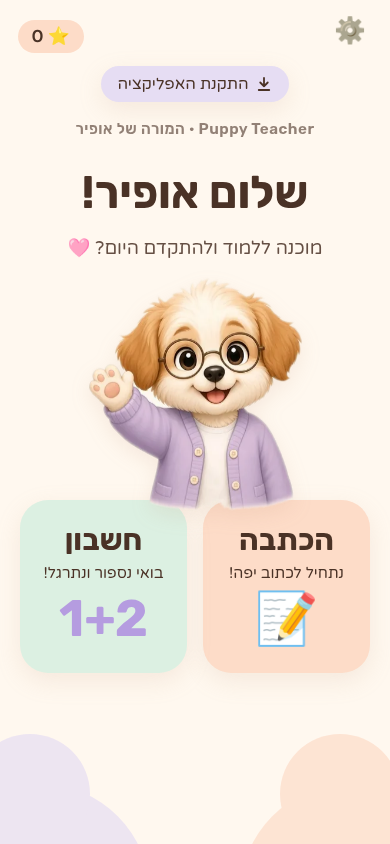
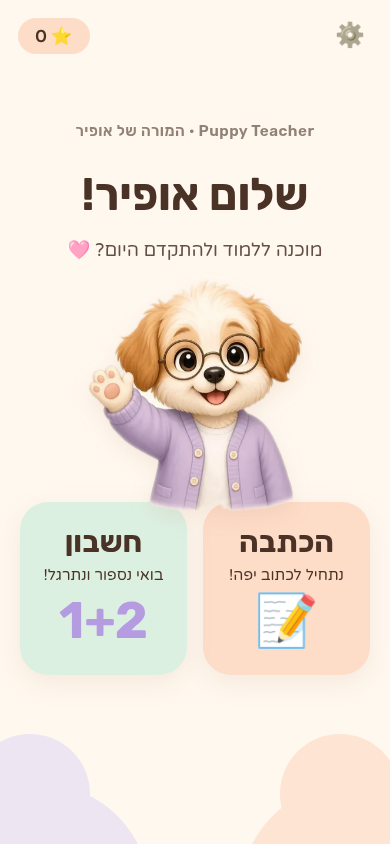
Math multiple choice, nikud editor, feminine text, recordings, hard words, CLS fix, sw v3

diff --git a/app.js b/app.js
@@ -30,70 +30,108 @@ const dots = (n, i) => $("#dots").innerHTML = n ? Array.from({ length: n }, (_, 
 const go = h => location.hash = h;
 function route() {
   const h = location.hash.slice(1) || "home"; clearTimeout(ft); dots(0);
-  const scr = ["full", "flash", "class"].includes(h) ? "dict" : h;
+  const scr = ["full", "flash", "class", "hard"].includes(h) ? "dict" : h;
   $$(".screen").forEach(s => s.classList.toggle("on", s.id === scr));
-  $("#back").style.visibility = h === "home" ? "hidden" : "visible";
+  $("#back").hidden = h === "home"; $("#gear").hidden = h !== "home";
   ({ dict: () => startDict(h), math: startMath, parent: renderParent, modes: renderModes })[scr]?.();
 }
 addEventListener("hashchange", route);
 document.addEventListener("click", e => { const g = e.target.closest("[data-go]"); if (g) go(g.dataset.go); });
-$("#back").onclick = () => go(["full", "flash", "class"].includes(location.hash.slice(1)) ? "modes" : "home");
+$("#back").onclick = () => go(["full", "flash", "class", "hard"].includes(location.hash.slice(1)) ? "modes" : "home");
 
 function renderModes() {
   $("#listSel").innerHTML = lists.map(l => `<option value="${l.id}" ${l.id === cur ? "selected" : ""}>${l.name}</option>`).join("");
+  const n = Object.keys(hardOf()).length; $("#hardBtn").hidden = !n; $("#hardN").textContent = n;
 }
-$("#listSel").onchange = e => S.set("cur", cur = e.target.value);
+$("#listSel").onchange = e => { S.set("cur", cur = e.target.value); renderModes(); };
+
+// voice recordings (IndexedDB)
+const DB = new Promise(ok => { const r = indexedDB.open("pt", 1); r.onupgradeneeded = () => r.result.createObjectStore("rec"); r.onsuccess = () => ok(r.result); r.onerror = () => ok(null); });
+const rec = async (mode, key, val) => { const db = await DB; if (!db) return null; return new Promise(ok => {
+  const s = db.transaction("rec", mode === "get" ? "readonly" : "readwrite").objectStore("rec");
+  const q = mode === "get" ? s.get(key) : mode === "put" ? s.put(val, key) : s.delete(key); q.onsuccess = () => ok(q.result); q.onerror = () => ok(null); }); };
+const recKey = (lid, w) => lid + "|" + w;
+let audio;
+async function sayWord(w) {
+  const b = await rec("get", recKey(curList().id, w));
+  if (b) { audio?.pause(); audio = new Audio(URL.createObjectURL(b)); audio.play(); return true; }
+  return speak(w);
+}
+
+// hard words
+const curList = () => lists.find(l => l.id === cur) || lists[0] || { id: "", words: [] };
+const hardOf = () => S.get("hard_" + curList().id, {});
+function markWord(w, ok) {
+  const h = hardOf();
+  if (!ok) h[w] = 0; else if (w in h) { if (++h[w] >= 2) delete h[w]; }
+  S.set("hard_" + curList().id, h);
+}
 
 // dictation
 let words = [], wi = 0, mode, ft, stage;
 function startDict(m) {
-  mode = m; wi = 0; words = (lists.find(l => l.id === cur) || lists[0] || { words: [] }).words;
-  if (!words.length) return go("parent");
+  const all = curList().words, h = hardOf();
+  mode = m === "hard" ? "class" : m;
+  words = m === "hard" ? all.filter(w => w in h) : [...all.filter(w => w in h), ...all.filter(w => !(w in h))];
+  wi = 0; if (!words.length) return go(m === "hard" ? "modes" : "parent");
   show();
 }
+function reveal() {
+  stage = 2; const W = $("#word"); W.hidden = false; W.classList.remove("h");
+  $("#play").hidden = $("#again").hidden = true; $("#review").hidden = false;
+  pose($("#pd"), "think"); say($("#bd"), "בדקי במחברת – כתבת נכון?", false); $("#dMain").textContent = "הבאה";
+}
 function show() {
-  clearTimeout(ft); dots(words.length, wi); stage = 0;
+  clearTimeout(ft); dots(words.length, wi); stage = 0; $("#review").hidden = true;
   const w = words[wi], W = $("#word"), b = $("#bd");
   W.textContent = w; W.classList.remove("h"); W.hidden = false;
   $("#play").hidden = $("#again").hidden = true; $("#dPrev").hidden = mode !== "full" || wi === 0;
   pose($("#pd"), "pencil"); $("#dMain").textContent = "הבאה";
   if (mode === "full") say(b, wi ? "עכשיו את זו, אופיר" : "העתיקי למחברת, אופיר", !wi);
   if (mode === "flash") {
-    say(b, "הסתכלי טוב...", false); $("#dMain").textContent = "כתבתי!";
+    say(b, "הסתכלי טוב...", false); $("#dMain").textContent = "כתבתי!"; stage = 1;
     ft = setTimeout(() => { W.classList.add("h"); $("#again").hidden = false; say(b, "עכשיו כתבי מהזיכרון!", false); }, S.get("sec", 3) * 1000);
   }
   if (mode === "class") {
     W.hidden = true; $("#play").hidden = $("#again").hidden = false; $("#dMain").textContent = "המשך";
     say(b, "הקשיבי אופיר...", false); stage = 1;
-    if (!speak(w)) { W.hidden = false; $("#play").hidden = true; say(b, "אין קול עברי במכשיר – קראי את המילה", false); }
+    sayWord(w).then(ok => { if (!ok) { W.hidden = false; $("#play").hidden = true; say(b, "אין קול במכשיר – קראי את המילה", false); } });
   }
 }
-$("#play").onclick = $("#again").onclick = () => mode === "flash" ? show() : speak(words[wi]);
+$("#play").onclick = $("#again").onclick = () => mode === "flash" ? show() : sayWord(words[wi]);
 $("#dPrev").onclick = () => { wi--; show(); };
+$("#review").onclick = e => { const b = e.target.closest("[data-ok]"); if (!b) return;
+  const ok = b.dataset.ok === "1"; markWord(words[wi], ok);
+  say($("#bd"), ok ? rnd(PRAISE) : "לא נורא, נתרגל אותה שוב, אופיר 💪", ok); if (ok) pose($("#pd"), "cheer");
+  $("#review").hidden = true; };
 $("#dMain").onclick = () => {
-  if (stage === 1) { stage = 2; $("#word").hidden = false; $("#play").hidden = $("#again").hidden = true;
-    pose($("#pd"), "think"); say($("#bd"), "בדקי במחברת: ככה כותבים!", false); $("#dMain").textContent = "הבאה"; return; }
-  if (wi < words.length - 1) { if (mode !== "full" && Math.random() < .35) { pose($("#pd"), "cheer"); speak(rnd(PRAISE)); } wi++; return show(); }
-  addStar(1); party(); pose($("#pd"), "cheer"); dots(words.length, words.length);
+  if (stage === 3) return startDict(location.hash.slice(1));
+  if (stage === 1) return reveal();
+  if (wi < words.length - 1) { wi++; return show(); }
+  addStar(1); party(); pose($("#pd"), "cheer"); dots(words.length, words.length); $("#review").hidden = true;
   say($("#bd"), "סיימת את הרשימה! כל הכבוד אופיר!"); $("#word").hidden = false; $("#word").classList.remove("h");
   $("#word").textContent = "⭐"; $("#play").hidden = $("#again").hidden = $("#dPrev").hidden = true;
   $("#dMain").textContent = "🔁 שוב"; stage = 3;
 };
-// repeat handler (stage 3 -> restart)
-const _dm = $("#dMain").onclick; $("#dMain").onclick = () => stage === 3 ? startDict(mode) : _dm();
 
-// math
+// math (answer on screen by tapping a choice)
 const LV = [["עד 10", 10, "+"], ["עד 20", 20, "+"], ["עד 29", 29, "+"], ["מה חסר?", 20, "?"], ["חיסור", 20, "-"]];
-let lvl = S.get("lv", 0), q, ex, rev, aid = false, got;
+let lvl = S.get("lv", 0), q, ex, aid = false, got, miss, lock;
 $("#lv").innerHTML = LV.map((l, i) => `<button data-l="${i}">${l[0]}</button>`).join("");
 $("#lv").onclick = e => { const b = e.target.closest("[data-l]"); if (b) { S.set("lv", lvl = +b.dataset.l); startMath(); } };
-function startMath() { q = 0; got = 0; $$("#lv button").forEach((b, i) => b.classList.toggle("sel", i === lvl)); say($("#bmath"), "פתרי במחברת, אופיר", false); next(); }
+function startMath() { q = 0; got = 0; $$("#lv button").forEach((b, i) => b.classList.toggle("sel", i === lvl)); say($("#bmath"), "בחרי את התשובה, אופיר", false); next(); }
+function choices(ans, max) {
+  const set = new Set([ans]), c = [1, -1, 2, -2, 3, -3, 10, -10].sort(() => Math.random() - .5);
+  for (const d of c) { const v = ans + d; if (set.size < 4 && v >= 0 && v <= max) set.add(v); }
+  return [...set].sort(() => Math.random() - .5);
+}
 function next() {
   const [, max, t] = LV[lvl], r = n => Math.floor(Math.random() * (n + 1));
   const s = Math.max(2, r(max)), a = r(s), b = s - a;
   ex = t === "+" ? { h: `${a} + ${b} = _`, ans: s, x: a, y: b } : t === "?" ? { h: `${a} + _ = ${s}`, ans: b, x: a, y: 0 } : { h: `${s} − ${a} = _`, ans: b, x: s, y: 0 };
-  rev = false; dots(10, q); pose($("#pm"), "pencil"); $("#mMain").textContent = "בדיקה";
+  miss = 0; lock = false; dots(10, q); pose($("#pm"), "pencil");
   $("#ex").innerHTML = ex.h.replace("_", '<span class="q">?</span>'); drawAid();
+  $("#ch").innerHTML = choices(ex.ans, max).map(v => `<button data-v="${v}">${v}</button>`).join("");
 }
 function drawAid() {
   const el = $("#aid"); el.innerHTML = ""; if (!aid) return;
@@ -101,44 +139,94 @@ function drawAid() {
   fr(ex.x, "x"); fr(ex.y, "y");
 }
 $("#aidBtn").onclick = () => { aid = !aid; drawAid(); };
-$("#mMain").onclick = () => {
-  if (!rev) { rev = true; $("#ex .q").outerHTML = `<span class="a">${ex.ans}</span>`; pose($("#pm"), "think");
-    say($("#bmath"), "יצא לך " + ex.ans + "?", false); $("#mMain").textContent = "המשך"; got++; return; }
-  if (++q < 10) { if (Math.random() < .3) speak(rnd(PRAISE)); return next(); }
-  addStar(Math.ceil(got / 3)); party(); pose($("#pm"), "cheer"); dots(10, 10);
-  say($("#bmath"), "סיימת 10 תרגילים! את אלופה אופיר!"); setTimeout(startMath, 3000);
+$("#ch").onclick = e => {
+  const b = e.target.closest("[data-v]"); if (!b || lock || b.disabled) return;
+  if (+b.dataset.v === ex.ans) {
+    lock = true; b.classList.add("ok"); $("#ex .q").outerHTML = `<span class="a">${ex.ans}</span>`;
+    pose($("#pm"), "cheer"); if (!miss) got++; say($("#bmath"), rnd(PRAISE), Math.random() < .5);
+    setTimeout(() => { if (++q < 10) return next();
+      addStar(Math.max(1, Math.ceil(got / 3))); party(); dots(10, 10);
+      say($("#bmath"), "סיימת 10 תרגילים! את אלופה אופיר!"); setTimeout(startMath, 3200); }, 1300);
+  } else {
+    miss++; b.classList.add("no"); b.disabled = true; pose($("#pm"), "think");
+    say($("#bmath"), miss > 1 ? "הנה התשובה הנכונה – לחצי עליה" : "כמעט! נסי שוב, אופיר", false);
+    if (miss > 1) $(`#ch [data-v="${ex.ans}"]`).classList.add("hint");
+  }
 };
 
 // parent area
-let editId = null, lastTA = $("#pWords");
-const NIK = [["ָ", "קמץ"], ["ַ", "פתח"], ["ֵ", "צירה"], ["ֶ", "סגול"], ["ִ", "חיריק"], ["ֹ", "חולם"], ["ֻ", "קובוץ"], ["ּ", "דגש/שורוק"], ["ְ", "שווא"], ["ֱ", "חטף סגול"], ["ֲ", "חטף פתח"], ["ֳ", "חטף קמץ"], ["ׁ", "שׁ ימנית"], ["ׂ", "שׂ שמאלית"]];
-$("#nik").innerHTML = NIK.map(([m, n]) => `<button title="${n}" data-m="${m}">ב${m}</button>`).join("");
-["#pWords", "#sWords"].forEach(s => $(s).addEventListener("focus", e => lastTA = e.target));
-$("#nik").addEventListener("pointerdown", e => e.preventDefault());
-$("#nik").onclick = e => { const m = e.target.dataset.m; if (!m) return; const t = lastTA, a = t.selectionStart;
-  t.setRangeText(m, a, t.selectionEnd, "end"); t.focus(); };
+let editId = null;
+// ---- nikud helpers (pure) ----
+const isMark = c => /[\u0591-\u05C7]/.test(c);
+const VOW = c => /[\u05B0-\u05BB\u05C7]/.test(c), DAG = c => c === "\u05BC", SHD = c => c === "\u05C1" || c === "\u05C2";
+function setMark(cl, m) {
+  if (m === "") return cl[0];
+  const cls = VOW(m) ? VOW : DAG(m) ? DAG : SHD, ms = [...cl.slice(1)], had = ms.includes(m);
+  const rest = ms.filter(c => !cls(c)); if (!had) rest.push(m);
+  return (cl[0] + rest.join("")).normalize("NFC");
+}
+const clusters = w => w.match(/[^\u0591-\u05C7][\u0591-\u05C7]*/g) || [];
+// ---- toolbar ----
+const NIK = [["ַ", "פתח"], ["ָ", "קמץ"], ["ֵ", "צירה"], ["ֶ", "סגול"], ["ִ", "חיריק"], ["ֹ", "חולם"], ["ֻ", "קובוץ"], ["ְ", "שווא"], ["ֲ", "חטף פתח"], ["ֱ", "חטף סגול"], ["ֳ", "חטף קמץ"], ["ּ", "דגש / שורוק"], ["ׁ", "שׁ"], ["ׂ", "שׂ"], ["", "ניקוי"]];
+const TA = $("#pWords"); let sel = { s: 0, e: 0 }, chip = null; // chip = {line, idx}
+const keepSel = () => { sel = { s: TA.selectionStart, e: TA.selectionEnd }; chip = null; $$("#letters button").forEach(b => b.classList.remove("sel")); preview(); };
+["keyup", "click", "input", "select", "focus"].forEach(ev => TA.addEventListener(ev, keepSel));
+document.addEventListener("selectionchange", () => { if (document.activeElement === TA) keepSel(); });
+function taCluster() { // letter cluster ending at/just before caret
+  const v = TA.value; let i = sel.s; if (!i) return null;
+  let j = i; while (j > 0 && isMark(v[j - 1])) j--; const st = j - 1; if (st < 0 || /\s/.test(v[st])) return null;
+  let en = st + 1; while (en < v.length && isMark(v[en])) en++;
+  return { st, en, cl: v.slice(st, en) };
+}
+function target() {
+  if (chip) { const w = lines()[chip.line], c = clusters(w); return c[chip.idx] ? { cl: c[chip.idx] } : null; }
+  return taCluster();
+}
+function preview() {
+  const t = target(), L = t ? t.cl[0] : "א";
+  $("#nik").innerHTML = NIK.map(([m, n]) => `<button title="${n}" data-m="${m}">${m === "" ? "✖" : (t ? setMark(t.cl, m) : L + m)}</button>`).join("");
+}
+$("#nik").addEventListener("pointerdown", e => e.preventDefault()); // keep keyboard/selection
+$("#nik").onclick = e => {
+  const b = e.target.closest("[data-m]"); if (!b) return; const m = b.dataset.m, t = target(); if (!t) return;
+  if (chip) { const ls = lines(), c = clusters(ls[chip.line]); c[chip.idx] = setMark(c[chip.idx], m); ls[chip.line] = c.join(""); TA.value = ls.join("\n"); showLetters(chip.line, chip.idx); }
+  else { const nw = setMark(t.cl, m); TA.setRangeText(nw, t.st, t.en, "end"); sel = { s: t.st + nw.length, e: t.st + nw.length }; TA.setSelectionRange(sel.s, sel.s); preview(); }
+  renderWords();
+};
+// ---- word editor ----
+const lines = () => TA.value.split("\n");
+function renderWords() { $("#wlist").innerHTML = lines().map((w, i) => w.trim() ? `<button data-w="${i}">${w}</button>` : "").join(""); }
+function showLetters(li, sIdx = null) {
+  $("#letters").innerHTML = clusters(lines()[li]).map((c, i) => `<button data-c="${i}" class="${i === sIdx ? "sel" : ""}">${c}</button>`).join("");
+  $("#letters").dataset.line = li;
+}
+TA.addEventListener("input", renderWords);
+$("#wlist").onclick = e => { const b = e.target.closest("[data-w]"); if (b) { TA.blur(); chip = null; showLetters(+b.dataset.w); preview(); } };
+$("#letters").onclick = e => { const b = e.target.closest("[data-c]"); if (!b) return;
+  chip = { line: +$("#letters").dataset.line, idx: +b.dataset.c }; showLetters(chip.line, chip.idx); preview(); };
+window.__nik = { setMark, clusters };
 const clean = s => s.normalize("NFC").split("\n").map(x => x.trim()).filter(Boolean);
 function renderParent() {
   $("#plist").innerHTML = lists.map(l => `<div><span>${l.name} · ${l.words.length}${l.img ? " 📷" : ""}</span><span>
    ${l.img ? `<button data-v="${l.id}">🖼</button>` : ""}<button data-e="${l.id}">✏</button><button data-d="${l.id}">🗑</button></span></div>`).join("");
-  $("#sec").value = S.get("sec", 3);
+  $("#sec").value = S.get("sec", 3); renderWords(); preview();
 }
 $("#plist").onclick = e => { const d = e.target.dataset, l = lists.find(x => x.id === (d.e || d.d || d.v)); if (!l) return;
   if (d.v) { const p = $("#prev"); p.src = l.img; p.hidden = false; p.scrollIntoView({ behavior: "smooth" }); }
-  if (d.e) { editId = l.id; $("#pName").value = l.name; $("#pWords").value = l.words.join("\n"); $("#prev").hidden = !l.img; if (l.img) $("#prev").src = l.img; }
+  if (d.e) { editId = l.id; $("#pName").value = l.name; $("#pWords").value = l.words.join("\n"); renderWords(); $("#letters").innerHTML = ""; renderRecs(); $("#prev").hidden = !l.img; if (l.img) $("#prev").src = l.img; }
   if (d.d && confirm("למחוק?")) { lists = lists.filter(x => x !== l); S.set("lists", lists); renderParent(); } };
-$("#newL").onclick = () => { editId = null; $("#pName").value = $("#pWords").value = ""; $("#prev").hidden = true; $("#sugg").hidden = true; };
+$("#newL").onclick = () => { editId = null; $("#pName").value = $("#pWords").value = ""; $("#prev").hidden = true; $("#sugg").hidden = true; renderRecs(); };
 $("#save").onclick = () => {
   const w = clean($("#pWords").value); if (!w.length) return alert("נא להוסיף מילים");
   const name = $("#pName").value.trim() || "רשימה חדשה", img = $("#prev").hidden ? null : $("#prev").src;
   if (editId) Object.assign(lists.find(x => x.id === editId), { name, words: w, img });
   else { editId = "l" + Date.now(); lists.push({ id: editId, name, words: w, img }); S.set("cur", cur = editId); }
-  if (S.set("lists", lists)) { renderParent(); $("#status").textContent = "נשמר ✔"; }
+  if (S.set("lists", lists)) { renderParent(); renderRecs(); $("#status").textContent = "נשמר ✔"; }
 };
 $("#sec").onchange = e => S.set("sec", Math.max(1, +e.target.value || 3));
 const st = t => $("#status").textContent = t;
 function suggest(words) { $("#sWords").value = words.join("\n"); $("#sugg").hidden = false; }
-$("#okS").onclick = () => { $("#pWords").value = clean($("#sWords").value).join("\n"); $("#sugg").hidden = true; };
+$("#okS").onclick = () => { $("#pWords").value = clean($("#sWords").value).join("\n"); $("#sugg").hidden = true; renderWords(); };
 
 // Dicta Nakdan (CORS open; text/plain avoids preflight)
 $("#auto").onclick = async () => {
@@ -173,6 +261,28 @@ $("#img").onchange = async e => {
 
 $("#tot").textContent = S.get("stars", 0);
 route();
+
+// parent voice recordings per word (optional)
+async function renderRecs() {
+  const l = lists.find(x => x.id === editId); $("#recs").hidden = !l || !window.MediaRecorder; if ($("#recs").hidden) return;
+  const rows = await Promise.all(l.words.map(async (w, i) => `<div class="rec" data-i="${i}"><span>${w}</span>
+    <button data-a="r">🎙</button>${await rec("get", recKey(l.id, w)) ? '<button data-a="p">▶</button><button data-a="d">🗑</button>' : ""}</div>`));
+  $("#recList").innerHTML = rows.join("");
+}
+$("#recList").onclick = async e => {
+  const b = e.target.closest("[data-a]"); if (!b) return; const l = lists.find(x => x.id === editId), w = l.words[+b.closest(".rec").dataset.i], k = recKey(l.id, w);
+  if (b.dataset.a === "p") { const bl = await rec("get", k); if (bl) new Audio(URL.createObjectURL(bl)).play(); }
+  if (b.dataset.a === "d") { await rec("del", k); renderRecs(); }
+  if (b.dataset.a === "r") {
+    try {
+      const st = await navigator.mediaDevices.getUserMedia({ audio: true }), mr = new MediaRecorder(st), ch = [];
+      b.textContent = "⏺"; b.classList.add("live");
+      mr.ondataavailable = ev => ch.push(ev.data);
+      mr.onstop = async () => { st.getTracks().forEach(t => t.stop()); await rec("put", k, new Blob(ch, { type: mr.mimeType })); renderRecs(); };
+      mr.start(); b.onclick = () => mr.state === "recording" && mr.stop(); setTimeout(() => mr.state === "recording" && mr.stop(), 3000);
+    } catch { st("אין גישה למיקרופון"); }
+  }
+};
 
 // PWA install
 if ("serviceWorker" in navigator) navigator.serviceWorker.register("sw.js").catch(() => {});

diff --git a/index.html b/index.html
@@ -4,17 +4,16 @@
 <title>Puppy Teacher · המורה של אופיר</title><link rel="manifest" href="manifest.json"><meta name="theme-color" content="#FFF8EF"><link rel="icon" href="assets/icon-192.png"><link rel="apple-touch-icon" href="assets/apple-touch-icon.png"><meta name="apple-mobile-web-app-capable" content="yes"><meta name="mobile-web-app-capable" content="yes"><meta name="apple-mobile-web-app-title" content="Puppy Teacher"><meta name="apple-mobile-web-app-status-bar-style" content="default">
 <link rel="preconnect" href="https://fonts.googleapis.com">
 <link href="https://fonts.googleapis.com/css2?family=Rubik:wght@400;600;700&family=Varela+Round&display=swap" rel="stylesheet">
-<link rel="stylesheet" href="style.css"></head>
+<link rel="preload" href="assets/wave.webp" as="image"><link rel="stylesheet" href="style.css"></head>
 <body>
 <div class="clouds"><i class="c1"></i><i class="c2"></i></div>
-<header><button class="nav" id="back" aria-label="בית">🏠</button><div class="dots" id="dots"></div><div class="star">⭐ <b id="tot">0</b></div></header>
+<header><button class="nav" id="back" hidden aria-label="בית">🏠</button><button class="nav gear" id="gear" data-go="parent" aria-label="הורים">⚙</button><div class="dots" id="dots"></div><div class="star">⭐ <b id="tot">0</b></div></header>
 
 <main>
 <section id="home" class="screen">
- <button class="gear" data-go="parent" aria-label="הורים">⚙</button>
  <button class="install" id="install" hidden><svg viewBox="0 0 24 24" width="18" height="18" fill="none" stroke="currentColor" stroke-width="2.4" stroke-linecap="round" stroke-linejoin="round"><path d="M12 4v11m-5-5 5 5 5-5M5 20h14"/></svg> התקנת האפליקציה</button>
  <p class="brand">Puppy Teacher · המורה של אופיר</p><h1>שלום אופיר!</h1><p class="sub">מוכנה ללמוד ולהתקדם היום? 🩷</p>
- <img class="pup" data-pose="wave" alt="">
+ <img class="pup" data-pose="wave" src="assets/wave.webp" width="369" height="400" alt="">
  <div class="cards">
   <button class="card peach" data-go="modes"><b>הכתבה</b><span>נתחיל לכתוב יפה!</span><em>📝</em></button>
   <button class="card mint" data-go="math"><b>חשבון</b><span>בואי נספור ונתרגל!</span><em class="num">1+2</em></button>
@@ -22,30 +21,32 @@
 </section>
 
 <section id="modes" class="screen">
- <div class="talk"><div class="bubble" id="bm">איך נכתוב היום, אופיר?</div><img class="pup sm" data-pose="pencil" alt=""></div>
+ <div class="talk"><div class="bubble" id="bm">איך נכתוב היום, אופיר?</div><img class="pup sm" data-pose="pencil" src="assets/pencil.webp" width="318" height="400" alt=""></div>
  <select id="listSel"></select>
  <div class="list">
-  <button class="row peach" data-go="full">👀 <span><b>רואים ומעתיקים</b></span></button>
-  <button class="row lav" data-go="flash">⚡ <span><b>מסתכלים וזוכרים</b></span></button>
-  <button class="row mint" data-go="class">🔊 <span><b>שומעים וכותבים</b></span></button>
+  <button class="row peach" data-go="full">👀 <span><b>תסתכלי ותעתיקי</b></span></button>
+  <button class="row lav" data-go="flash">⚡ <span><b>תסתכלי ותזכרי</b></span></button>
+  <button class="row peach" data-go="hard" id="hardBtn" hidden>⭐ <span><b>מילים לתרגול (<span id="hardN"></span>)</b></span></button>
+  <button class="row mint" data-go="class">🔊 <span><b>תקשיבי ותכתבי</b></span></button>
  </div>
 </section>
 
 <section id="dict" class="screen">
- <div class="talk"><div class="bubble" id="bd"></div><img class="pup sm" id="pd" alt=""></div>
+ <div class="talk"><div class="bubble" id="bd"></div><img class="pup sm" id="pd" src="assets/pencil.webp" width="318" height="400" alt=""></div>
  <div class="panel"><div class="word" id="word"></div>
   <button class="play" id="play" aria-label="השמעה">▶</button>
   <button class="chip" id="again">↻ הפעל שוב</button></div>
+ <div class="review" id="review" hidden><button data-ok="1">✔ נכון</button><button data-ok="0">✖ לתרגל שוב</button></div>
  <button class="main" id="dMain">המשך</button>
  <button class="link" id="dPrev">→ הקודמת</button>
 </section>
 
 <section id="math" class="screen">
- <div class="talk"><div class="bubble" id="bmath">בואי נפתור במחברת!</div><img class="pup sm" id="pm" alt=""></div>
+ <div class="talk"><div class="bubble" id="bmath">בואי נפתור במחברת!</div><img class="pup sm" id="pm" src="assets/pencil.webp" width="318" height="400" alt=""></div>
  <div class="lv" id="lv"></div>
  <div class="panel"><div class="ex" id="ex"></div><div class="aid" id="aid"></div>
   <button class="chip" id="aidBtn">🔵 עזרה</button></div>
- <button class="main" id="mMain">בדיקה</button>
+ <div class="choices" id="ch"></div>
 </section>
 
 <section id="parent" class="screen">
@@ -53,13 +54,14 @@
  <div class="plist" id="plist"></div>
  <div class="box">
   <input id="pName" placeholder="שם הרשימה (למשל: שבוע 3)">
-  <div class="nik" id="nik"></div>
-  <textarea id="pWords" placeholder="מילה בכל שורה, עם ניקוד"></textarea>
+    <textarea id="pWords" placeholder="מילה בכל שורה, עם ניקוד"></textarea>
+  <p class="note">או לחצו על מילה ואז על אות כדי לשנות לה ניקוד:</p><div class="wlist" id="wlist"></div><div class="letters" id="letters"></div><div class="nik" id="nik"></div>
   <div class="btnrow"><button id="auto">✨ ניקוד אוטומטי</button><button id="photoBtn">📷 צילום דף</button></div>
   <input type="file" accept="image/*" id="img" hidden>
   <div id="status" class="note"></div>
   <img id="prev" hidden alt="">
   <div id="sugg" hidden><p class="note">הצעה – אפשר לערוך ואז לאשר:</p><textarea id="sWords"></textarea><button id="okS">✔ אישור והחלפה</button></div>
+  <div id="recs" hidden><p class="note">🎙 הקלטת קול להכתבה (לא חובה, עד 3 שניות למילה):</p><div id="recList"></div></div>
   <div class="btnrow"><button class="save" id="save">💾 שמירה</button><button id="newL">➕ חדשה</button></div>
  </div>
  <label class="note">שניות הצגה במצב זיכרון <input type="number" id="sec" min="1" max="15"></label>

diff --git a/style.css b/style.css
@@ -9,7 +9,7 @@ header{position:fixed;top:0;inset-inline:0;display:flex;align-items:center;justi
 main{max-width:520px;margin:0 auto;padding:72px 20px 140px}
 .screen{display:none;flex-direction:column;align-items:center;gap:18px}.screen.on{display:flex;animation:in .4s ease}
 @keyframes in{from{opacity:0;transform:translateY(10px)}}
-.gear{position:fixed;top:14px;right:18px;font-size:1.6rem;z-index:6;filter:hue-rotate(220deg) saturate(.5)}
+.gear{filter:hue-rotate(220deg) saturate(.5)}
 h1{font-family:Rubik;font-weight:700;font-size:2.8rem;margin:10px 0 0}h2{font-family:Rubik}
 .sub{margin:0;font-size:1.15rem;opacity:.85}
 .pup{width:62%;max-width:280px;animation:bob 3s ease-in-out infinite;filter:drop-shadow(0 8px 10px #b98a6a22)}
@@ -54,3 +54,22 @@ textarea{min-height:150px;font-size:1.4rem;line-height:1.6}
 .sheet>div{background:var(--bg);width:100%;border-radius:28px 28px 0 0;padding:22px;text-align:center;font-size:1.3rem}
 .sheet img{width:110px}.sheet p{margin:8px 0 16px;line-height:1.6}
 [hidden]{display:none!important}
+.choices{display:grid;grid-template-columns:1fr 1fr;gap:14px;width:100%}
+.choices button{background:#fff;border-radius:26px;padding:18px 0;font-family:Rubik;font-weight:700;font-size:2.6rem;box-shadow:var(--sh);transition:transform .15s,background .3s}
+.choices button:active{transform:scale(.95)}.choices .ok{background:#bfe7cb}.choices .no{opacity:.45;animation:shake .4s}.choices .hint{background:var(--mint);box-shadow:0 0 0 4px #9fd8b2}
+@keyframes shake{25%{transform:translateX(-8px)}75%{transform:translateX(8px)}}
+textarea#pWords{font-size:1.9rem;line-height:1.7}
+.nik{display:grid;grid-template-columns:repeat(5,1fr);gap:6px}.nik button{min-width:0;height:58px;font-size:2rem;font-family:'Rubik','Arial Hebrew',sans-serif}
+.wlist,.letters{display:flex;flex-wrap:wrap;gap:6px}.wlist button{background:var(--peach);border-radius:12px;padding:6px 12px;font-size:1.5rem}
+.letters button{background:#fff;border:2px solid var(--lavD);border-radius:14px;min-width:56px;height:64px;font-size:2.3rem}.letters .sel{background:var(--lav);border-color:var(--ink)}
+.review{display:flex;gap:10px}.review button{background:#fff;border-radius:18px;padding:10px 16px;font-size:1.1rem;box-shadow:var(--sh)}
+.rec{display:flex;align-items:center;gap:6px;padding:6px 0;border-bottom:1px solid #f3e8dc}.rec span{flex:1;font-size:1.5rem}.rec button{font-size:1.4rem;padding:4px 6px}.rec .live{animation:bob .6s infinite}
+/* layout-shift fixes */
+@font-face{font-family:"VR Fallback";src:local("Arial");size-adjust:104%;ascent-override:95%;descent-override:25%}
+body{font-family:'Varela Round','Rubik',"VR Fallback",sans-serif}
+header{height:72px;background:var(--bg)}
+.nav,.gear{width:44px;height:44px;display:flex;align-items:center;justify-content:center;line-height:1;font-size:1.5rem}
+.star{min-width:72px;height:36px;display:flex;align-items:center;justify-content:center;gap:4px;white-space:nowrap}
+.pup{height:auto;aspect-ratio:369/400;object-fit:contain}
+.install{height:38px}.install[hidden]{display:inline-flex!important;visibility:hidden}
+.dots{min-height:12px}

diff --git a/sw.js b/sw.js
@@ -1,4 +1,4 @@
-const V = "pt-v2", SHELL = ["./", "index.html", "style.css", "app.js", "words.js", "manifest.json", "assets/wave.webp", "assets/pencil.webp", "assets/think.webp", "assets/cheer.webp", "assets/icon-192.png"];
+const V = "pt-v3", SHELL = ["./", "index.html", "style.css", "app.js", "words.js", "manifest.json", "assets/wave.webp", "assets/pencil.webp", "assets/think.webp", "assets/cheer.webp", "assets/icon-192.png"];
 self.addEventListener("install", e => { e.waitUntil(caches.open(V).then(c => c.addAll(SHELL))); self.skipWaiting(); });
 self.addEventListener("activate", e => e.waitUntil(caches.keys().then(ks => Promise.all(ks.filter(k => k !== V).map(k => caches.delete(k)))).then(() => self.clients.claim())));
 self.addEventListener("fetch", e => {

diff --git a/README.md b/README.md
@@ -8,7 +8,9 @@
 
 ## יכולות
 - **הכתבה** – שלושה מצבים: רואים ומעתיקים · מסתכלים וזוכרים (המילה נעלמת אחרי כמה שניות) · שומעים וכותבים (הקראה בעברית, "המשך" חושף את המילה המנוקדת). בסוף – חזרה על הרשימה.
-- **חשבון** – חיבור עד 10/20/29, "מה חסר?", חיסור עד 20. "בדיקה" חושף תשובה, "המשך" לתרגיל הבא. עזרה ויזואלית במסגרות עשר.
+- **חשבון** – חיבור עד 10/20/29, "מה חסר?", חיסור עד 20. אופיר בוחרת תשובה מתוך 4 כפתורים; עזרה במסגרות עשר.
+- **מילים לתרגול** – אחרי חשיפת מילה מסמנים ✔/✖; מילים קשות חוזרות ראשונות (יוצאות אחרי 2 הצלחות ברצף).
+- **הקלטת קול** (לא חובה) – באזור ההורים 🎙 ליד כל מילה; בהכתבה מושמעת ההקלטה במקום הקול הממוחשב.
 - כוכבים, נקודות התקדמות ועידוד מהמורה (גם בקול).
 
 ## אזור הורים (⚙ במסך הבית)
